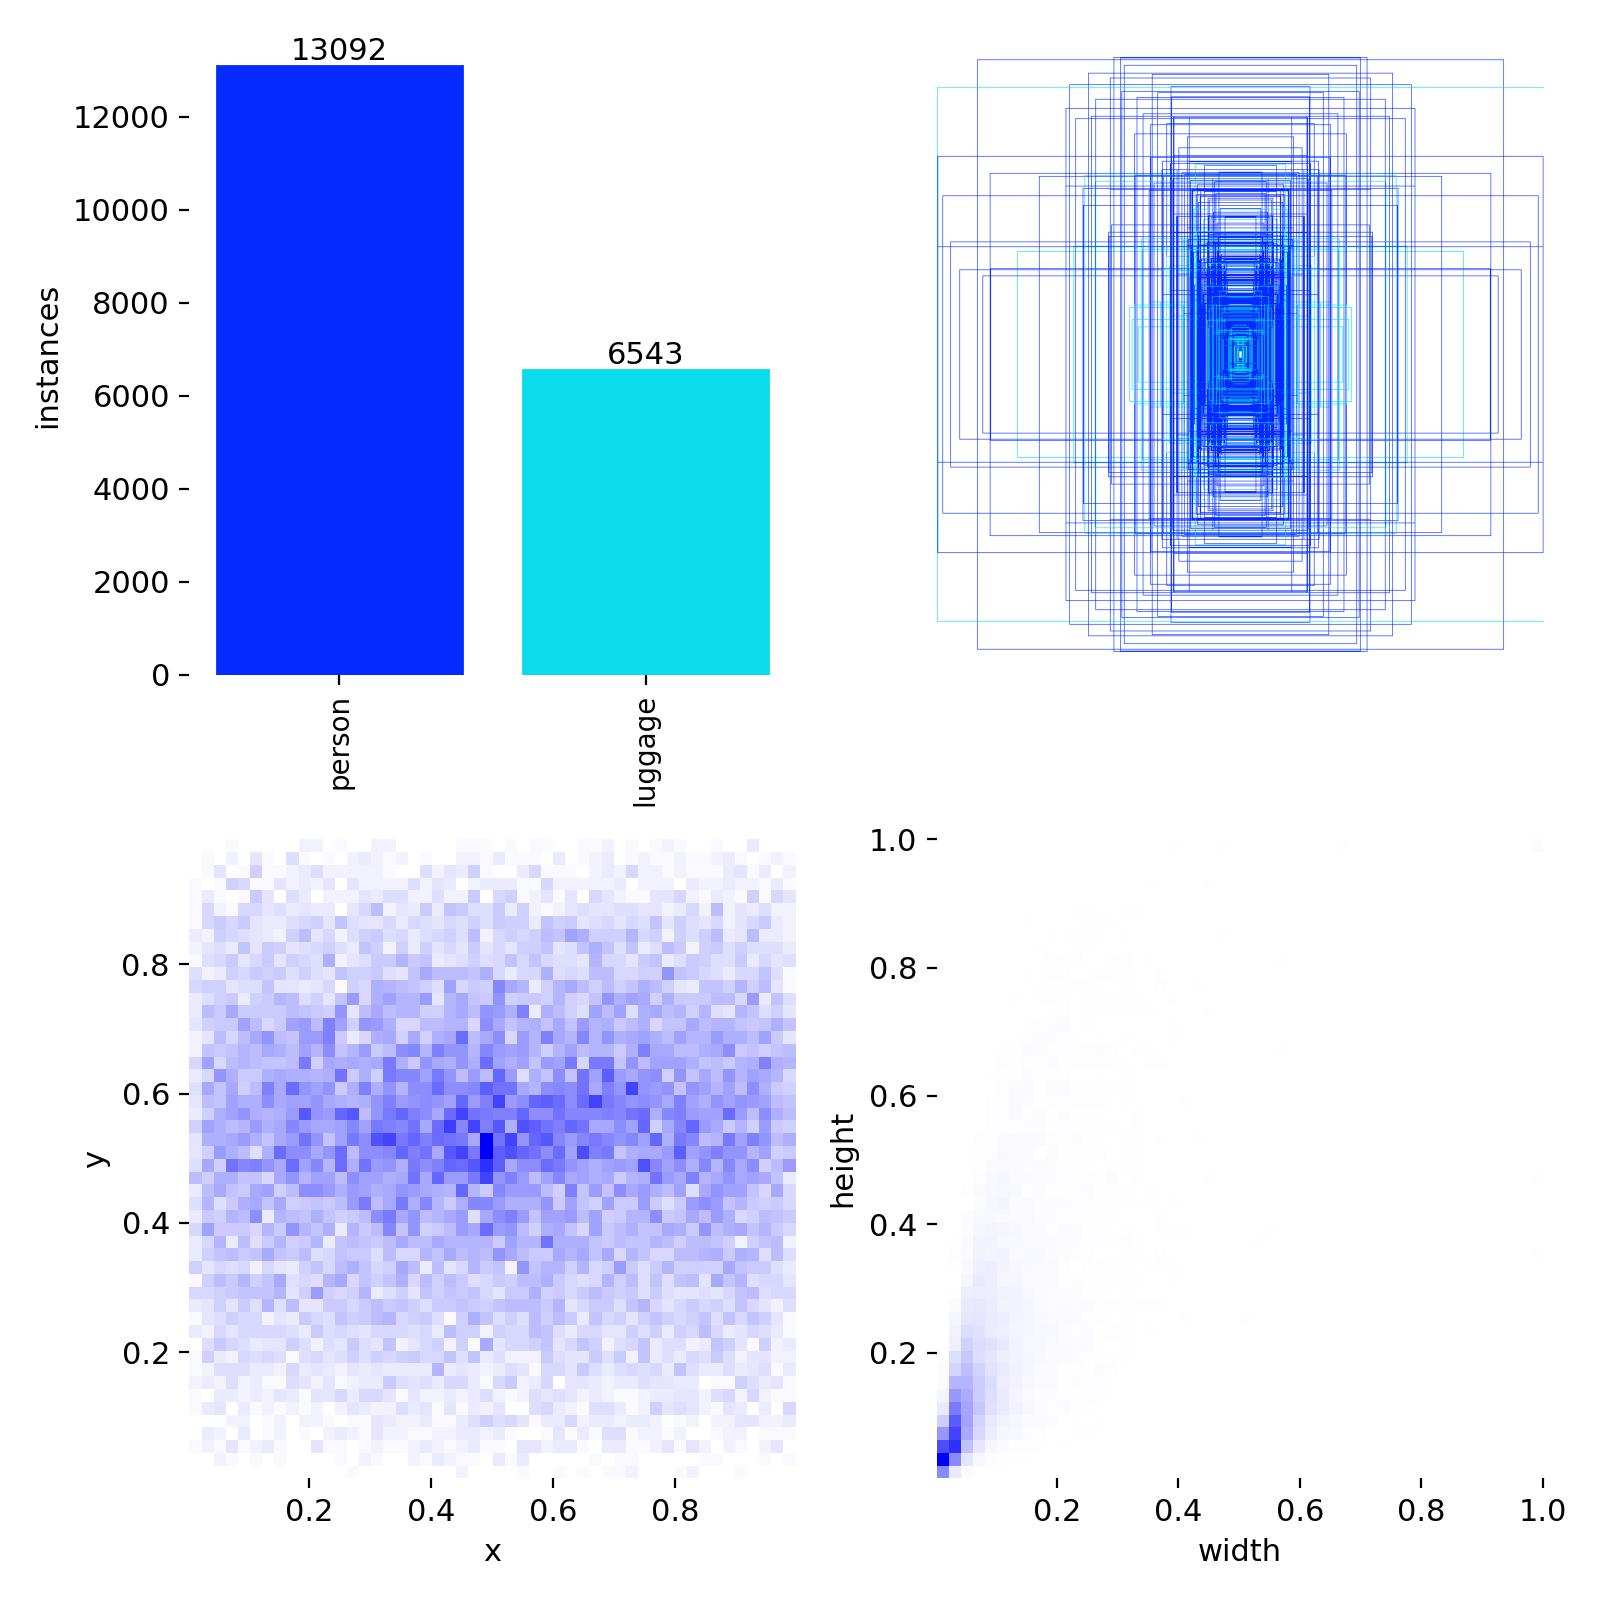
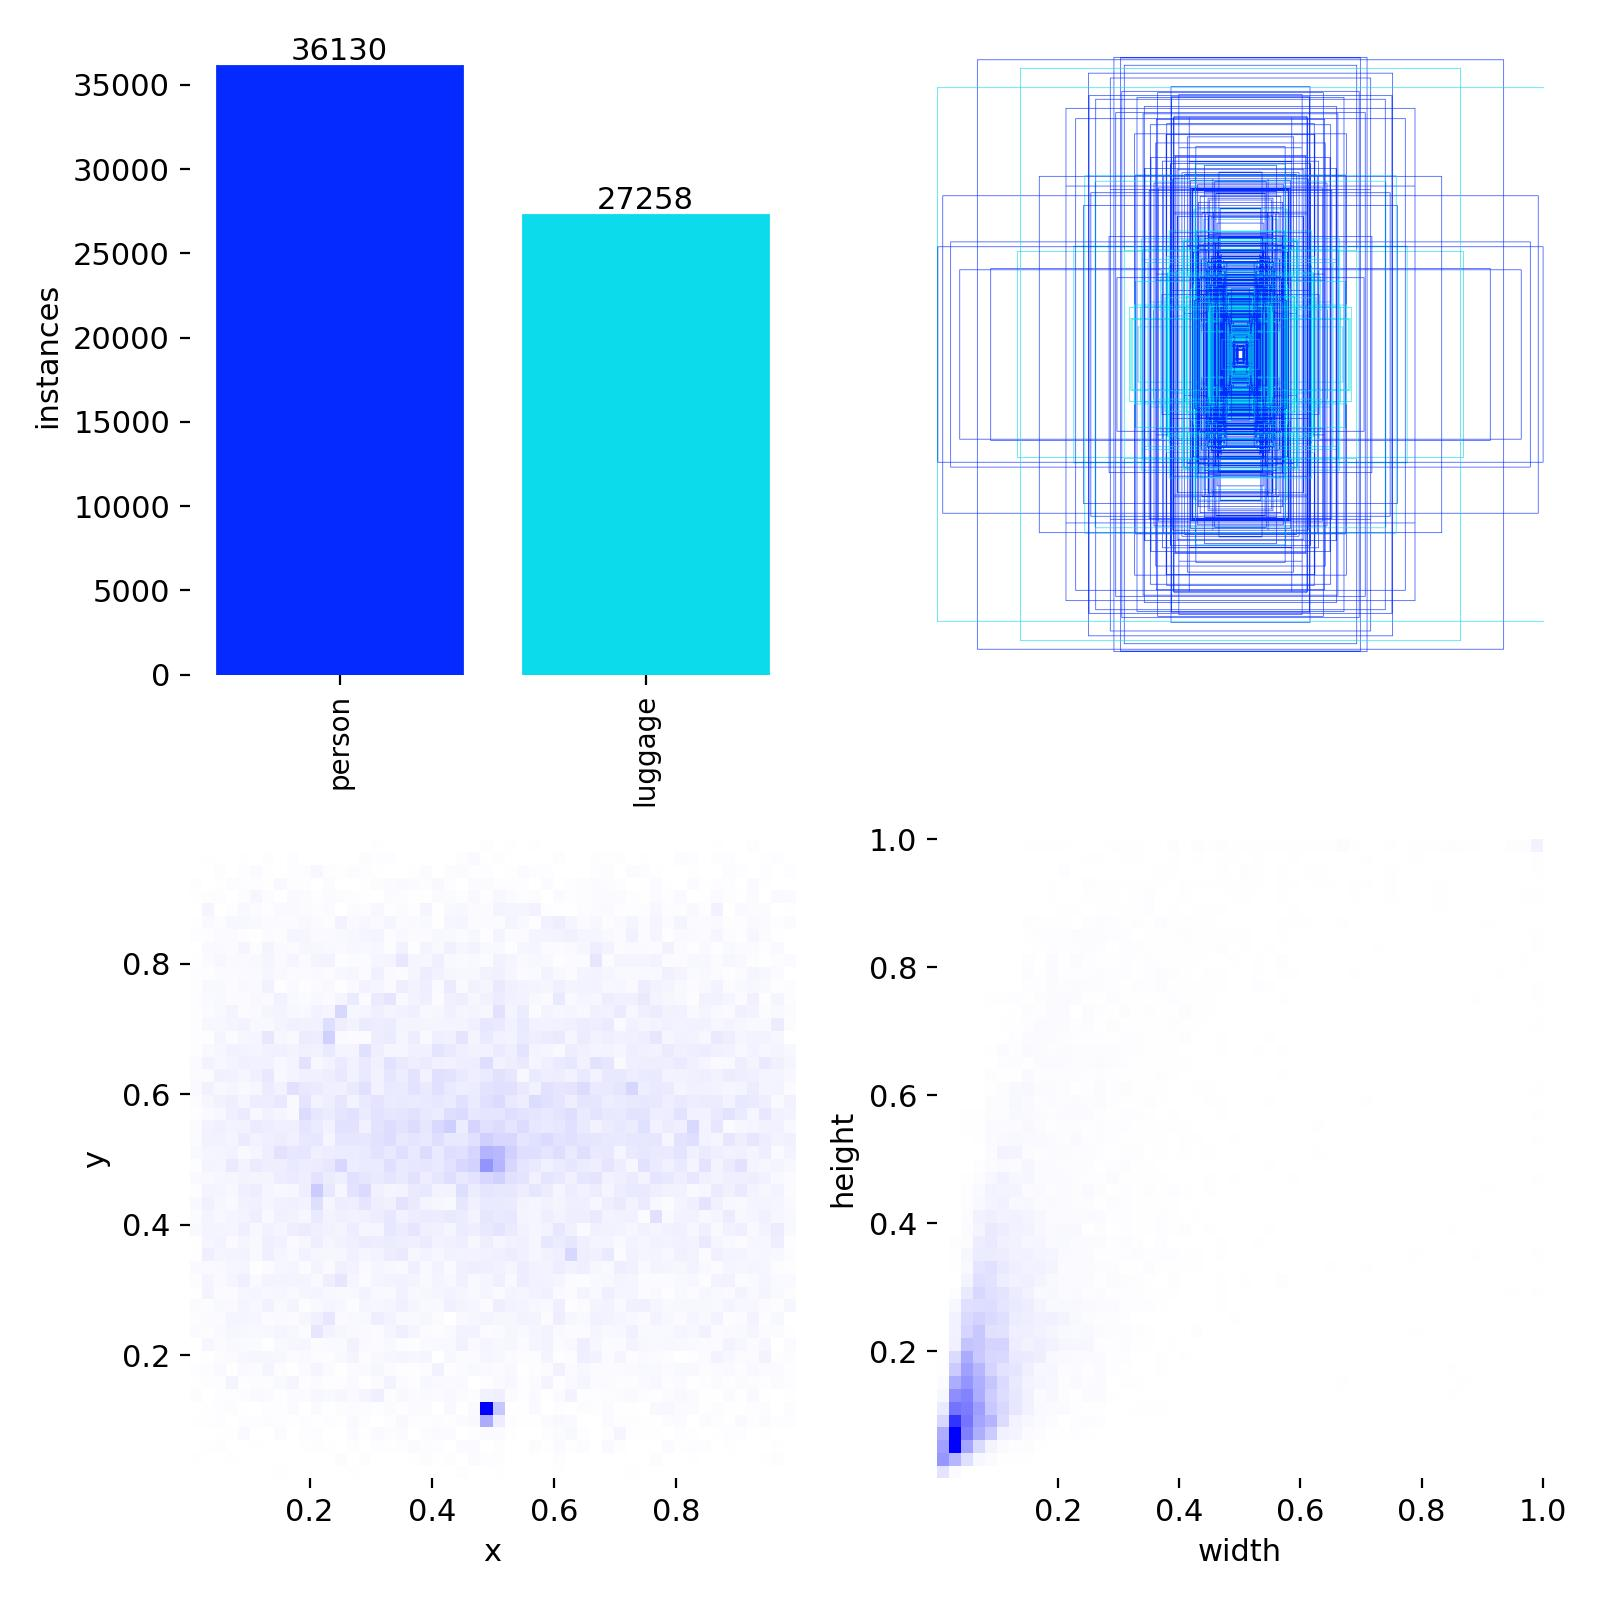
Updates dataset procurement section

diff --git a/doc/sections/05_implementation.tex b/doc/sections/05_implementation.tex
@@ -4,52 +4,75 @@
 
 \subsubsection{Object Detection Dataset}
 
-The training dataset for the object detection model was sourced from the
-Microsoft COCO dataset \citep{lin2014microsoft}. As mentioned prior, the COCO
-dataset is a large-scale source of over $200,000$ labelled images across 80
-object categories. The entirety of the dataset would lead to redundancy with a
-majority of classes being out of scope for the target application. Therefore, a
-subset of the COCO dataset was created, containing only images including the
-\texttt{person}, \texttt{backpack}, \texttt{handbag} and \texttt{suitcase}
-classes, which I then aggregated into a single \texttt{luggage} class. This
-resulted in a training dataset of $8,887$ images split into training and
-validation splits of $8,397$ and $490$ images, respectively. This split ensured
-that the validation set contained a representative sample of the training data,
-allowing for an accurate assessment of the model's performance during training
-and optimisations whilst the training set provided a sufficient amount of data
-for the model to learn from.
+\paragraph{Original COCO-only dataset.}
 
-Originally, I had intended to use datasets specific to the abandoned luggage
-detection domain, such as ABODA, however these datasets failed to include the
-amount of variation needed for training a robust model. Many annotated
-datasets, created from the source footage, led to overfitting and poor
-generalisation on test examples due to their smaller size, limited diversity in
-viewpoints, and repeated scene context. The COCO dataset, while lacking the
-domain specificity, offers a much larger variety of examples, covering a wide
-range of environments, lighting conditions, and object appearances.
+The initial training dataset was sourced exclusively from the Microsoft COCO
+dataset \citep{lin2014microsoft}, filtered for the \texttt{person},
+\texttt{backpack}, \texttt{handbag}, and \texttt{suitcase} classes, with the
+three luggage types aggregated into a single \texttt{luggage} class.
+Oversampling of underrepresented luggage sub-classes (e.g., duplicating
+\texttt{handbag} images) was applied to balance class representation.
+Domain-specific datasets such as ABODA were considered but proved too small and
+repetitive, leading to overfitting and poor generalisation. COCO, while lacking
+CCTV-native footage, offered a much larger variety of environments, lighting
+conditions, and object appearances. However, COCO alone provided a narrow
+luggage vocabulary (only three sub-types) and limited viewpoint diversity,
+motivating the introduction of a second source.
 
-Another benefit of using the COCO dataset is the ease of access and
-availability of annotations that are compatible with the latest YOLO models. A
-python script was used to filter the COCO dataset, specify the YOLO annotation
-format, balance class instances, remap classes to a single \texttt{luggage}
-class, and oversample specific classes (\ref{sec:model_training_optimisation})
-to create a more varied and proportionate training dataset.
+\paragraph{Mixed-source pipeline.}
 
-Constructing the dataset programmatically allowed for a specific and
-reproducible balance between the detected classes, which is crucial in the
-context of abandoned luggage detection, where smaller objects such as bags may
-be underrepresented in typical dataset. The target \texttt{person} budget was
-constrained by $N_{\text{person},\text{allowed}}=r\cdot N_{\text{luggage}}$,
-where $r$ is the target class instance ratio. Utilising balancing and
-oversampling techniques resulted in an overall class instance ratio of
-$\frac{13092}{6543} \approx 2.0:1$ between the \texttt{person} and
-\texttt{luggage} classes shown in
-figure~\ref{fig:dataset_class_distribution_after}; the reasoning behind this
-method is covered in more detail in the model training and optimisation section
-(\ref{sec:model_training_optimisation}). An example of the class distribution
-of the dataset before and after the balancing and oversampling techniques were
-applied is shown in figures~\ref{fig:dataset_class_distribution_before} and
-\ref{fig:dataset_class_distribution_after}, respectively.
+The current dataset pipeline pulls from both COCO~2017 and Open Images~V7
+\citep{krasin2017openimages} using FiftyOne, with the total sample budget split
+between the two sources by a configurable ratio (default $2{:}1$ OID-to-COCO).
+
+\textbf{COCO~2017} contributes the same four classes as the original pipeline
+(\texttt{person}, \texttt{backpack}, \texttt{handbag}, \texttt{suitcase}),
+remapped to \texttt{person} and \texttt{luggage}. Per-subclass oversampling
+weights (e.g., \texttt{handbag=3}) can still be applied before remapping to
+compensate for under-representation of difficult luggage types.
+
+\textbf{Open Images~V7} provides a broader vocabulary: six person-related
+classes (\texttt{Person}, \texttt{Man}, \texttt{Woman}, \texttt{Boy},
+\texttt{Girl}, \texttt{Human body}) mapped to \texttt{person}, and five
+luggage-related classes (\texttt{Backpack}, \texttt{Suitcase},
+\texttt{Handbag}, \texttt{Briefcase}, \texttt{Luggage and bags}) mapped to
+\texttt{luggage}. The additional classes --- particularly \texttt{Briefcase}
+and \texttt{Luggage and bags} --- and the gendered and age-specific person
+labels increase the diversity of both appearance and annotation style compared
+to the COCO-only baseline.
+
+The source-ratio parameter controls the relative contribution of each source
+and can be adjusted to weight either annotation diversity (more OID) or
+annotation quality (more COCO). Additionally, the pipeline supports merging
+supplementary local YOLO-format datasets (e.g., Roboflow exports) with
+automatic label normalisation via a set of aliases (e.g.,
+\texttt{bag}~$\to$~\texttt{luggage},
+\texttt{pedestrian}~$\to$~\texttt{person}), enabling domain-specific data to be
+incorporated without manual reformatting.
+
+\paragraph{Class balancing and filtering.}
+
+Two post-processing steps are applied after source merging:
+
+\begin{itemize}
+	\item \textbf{Min-area filtering:} Luggage annotations with a normalised
+	      bounding box area below a configurable threshold (default~$0.001$,
+	      approximately $32\times32$~px at $1024\times1024$ resolution) are
+	      removed. This prevents the model from learning from tiny, ambiguous
+	      annotations that are unlikely to yield useful detections at inference
+	      time.
+	\item \textbf{Person down-sampling:} Rather than relying solely on
+	      oversampling to balance the dataset, the pipeline down-samples
+	      person-only images to achieve a target person-to-luggage instance
+	      ratio (default~$2{:}1$). A person-instance budget is computed from
+	      the luggage count, and person-only images are retained until the
+	      budget is met. This avoids inflating the dataset with excessive
+	      person-only images that would dilute luggage representation.
+\end{itemize}
+
+The resulting dataset used for the final training runs contained $36{,}130$
+person instances and $27{,}258$ luggage instances, yielding an effective ratio
+of approximately $1.33{:}1$.
 
 \begin{figure*}[!htb]
 	\centering
@@ -61,28 +84,21 @@ applied is shown in figures~\ref{fig:dataset_class_distribution_before} and
 \begin{figure*}[!htb]
 	\centering
 	\includegraphics[width=0.8\textwidth]{figures/dataset_class_distribution_after.jpg}
-	\caption{Class distribution of the dataset after aggregation, balancing and oversampling techniques were applied.}
+	\caption{Class distribution of the dataset after aggregation, balancing and filtering techniques were applied.}
 	\label{fig:dataset_class_distribution_after}
 \end{figure*}
 
-Oversampling was applied to the constituent classes of the \texttt{luggage}
-class, which inferred upon review of the model's performance. This was
-implemented by duplicating images containing the underrepresented classes,
-defined by a parameter assigning weights to each class e.g.,
-``\texttt{backpack=2,handbag=3,suitcase=1}'' for the given COCO classes. This
-method allowed the model to learn the features of more difficult classes, such
-as \texttt{handbag}s, which it struggled to detect in the early stages of
-training.
+\paragraph{Limitations.}
 
-A limitation of using the COCO dataset and the sampling techniques used is the
-inherent lack of domain specificity, whilst the dataset contains a wide variety
-of examples, its lack of CCTV-native footage can lead to models struggling to
-generalise to the target application. Aggregating multiple classes into a
-single \texttt{luggage} class can also lead to a loss of granularity in the
-model's understanding of different types of luggage, however, this is a
-necessary trade-off to ensure a sufficient amount of training data was
-available and for the model to learn a more generalised representation of
-luggage which can help with the issue of generalisation.
+The mixed-source approach partially addresses the CCTV-native footage gap, Open
+Images contains a wider variety of scenes and viewpoints than COCO alone, but
+neither source is specifically drawn from surveillance footage, so the domain
+gap remains. Aggregating multiple luggage sub-types into a single
+\texttt{luggage} class sacrifices granularity in the model's understanding of
+different luggage types; however, this trade-off is necessary to ensure
+sufficient training data for the aggregated class and to encourage a
+generalised luggage representation that transfers better to unseen deployment
+environments.
 
 \subsubsection{Suspicious Luggage Dataset}
 \label{sec:suspicious_luggage_dataset}
